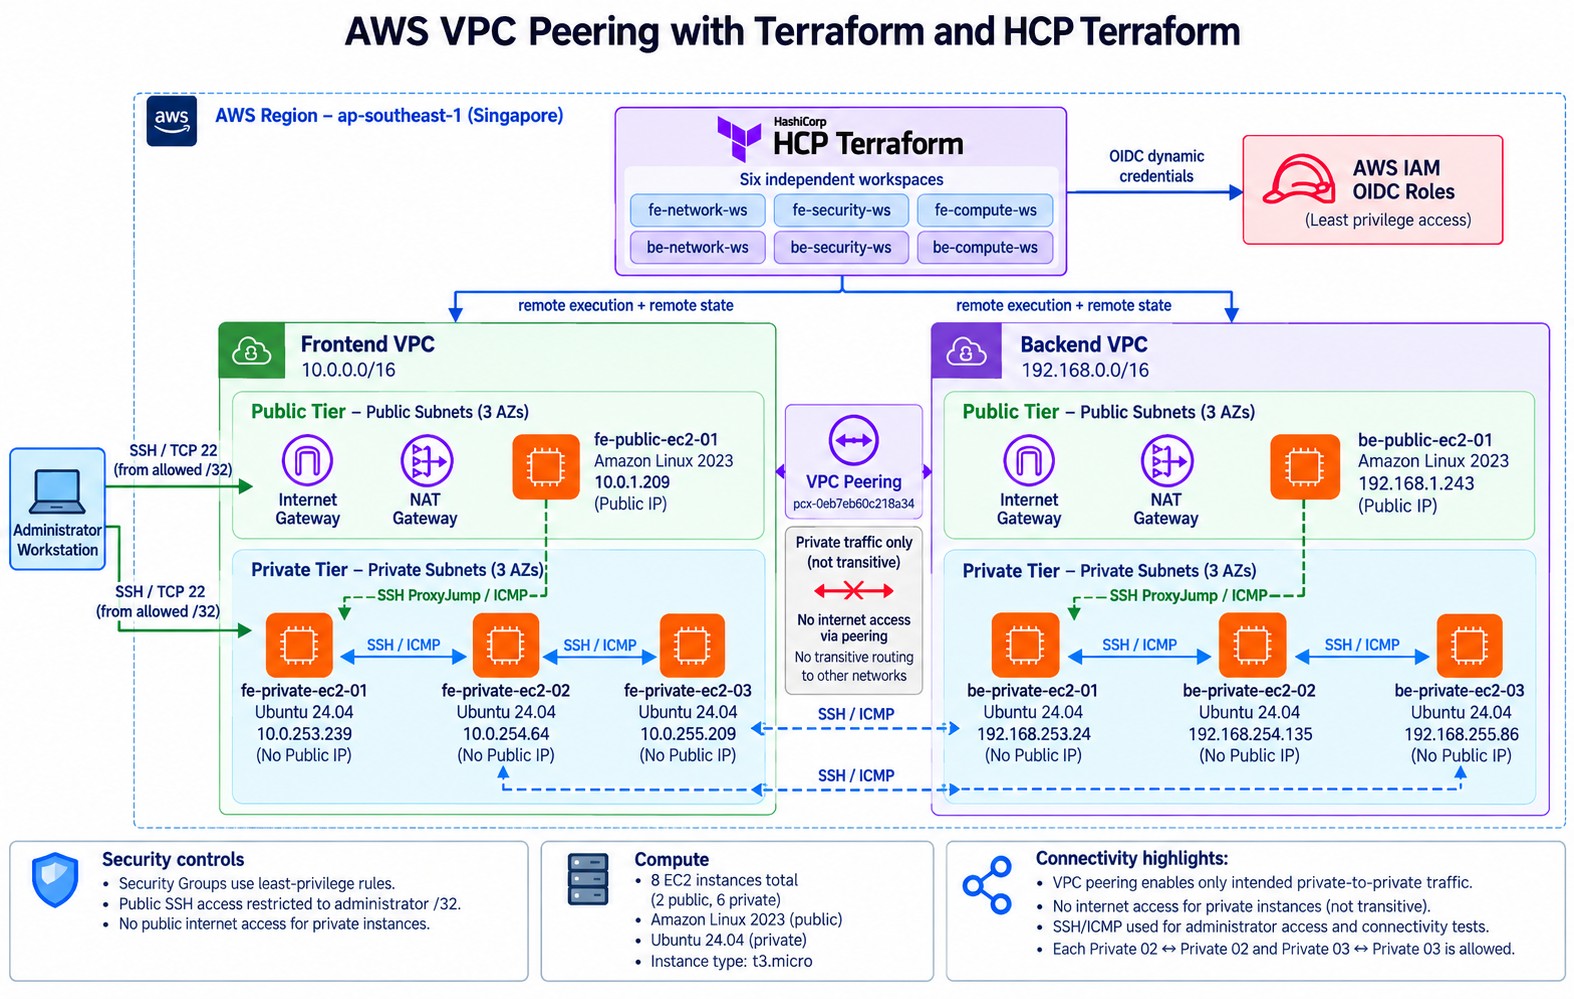
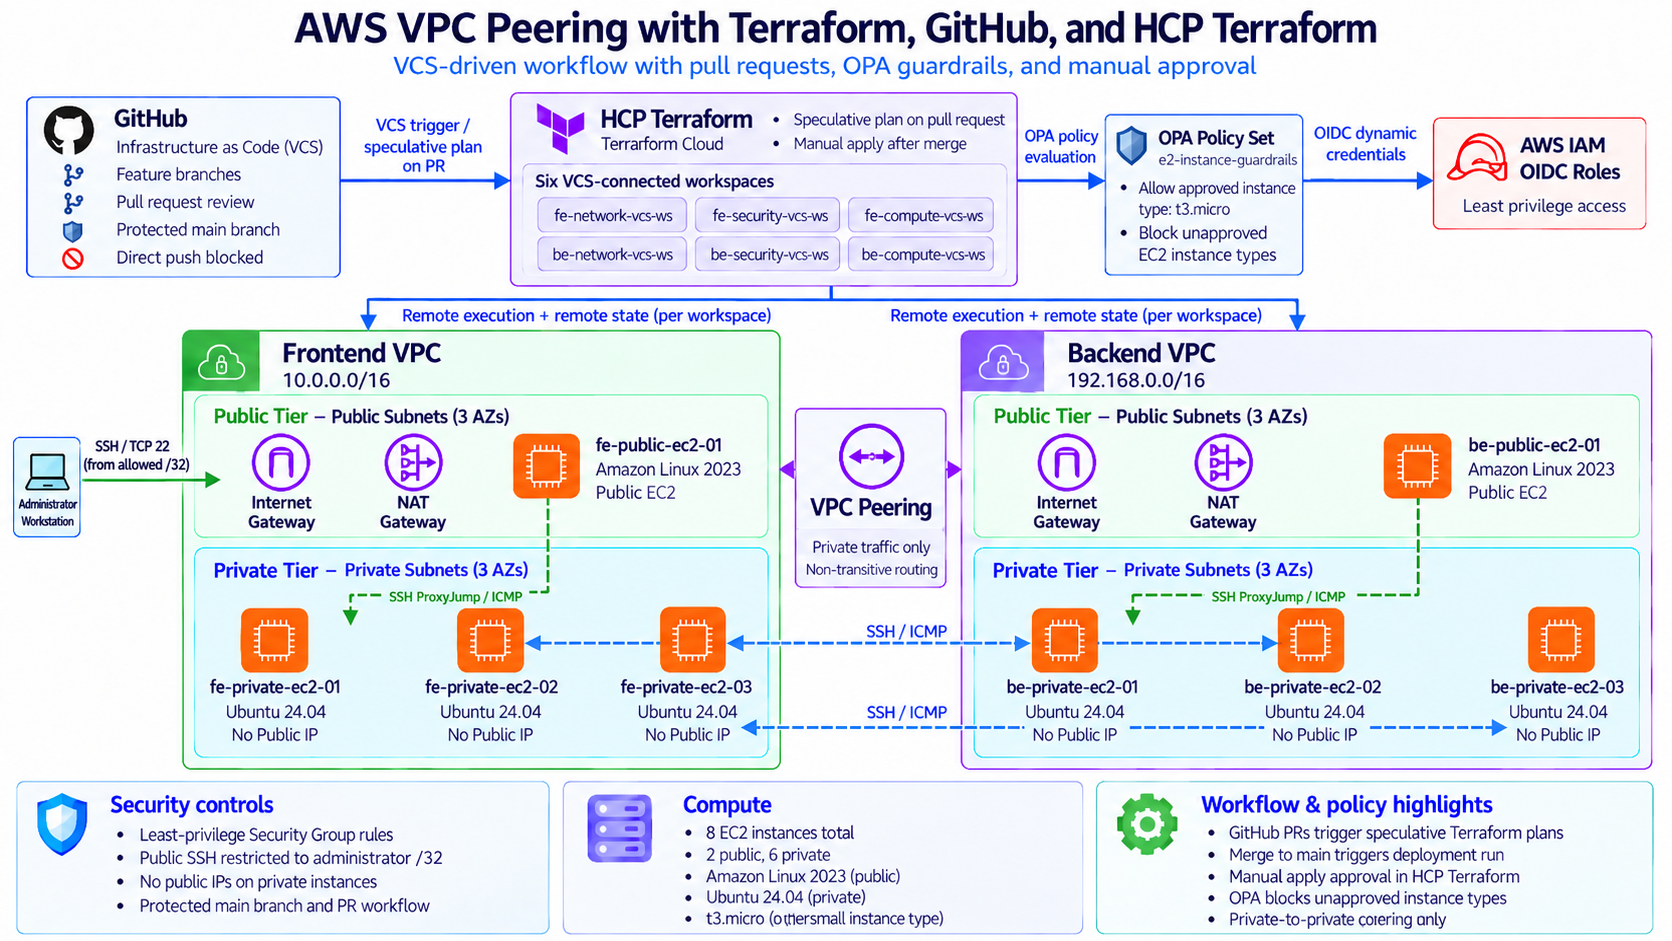
docs: finalize VPC peering CI/CD documentation

diff --git a/README.md b/README.md
@@ -1,6 +1,7 @@
-# AWS VPC Peering with Terraform — VCS-Driven Workflow
+# AWS VPC Peering with Terraform — GitHub CI/CD & HCP Terraform
 
-**A multi-VPC AWS networking project managed with Terraform and HCP Terraform, using GitHub-based version control to trigger infrastructure plans and manual approval for deployment.**
+**A multi-VPC AWS infrastructure project demonstrating Infrastructure as Code (IaC), GitHub-driven CI/CD pipelines, HCP Terraform, OIDC authentication, and Open Policy Agent (OPA) policy enforcement.**
+
 
 ## Overview
 
@@ -8,7 +9,11 @@ This project demonstrates how to build and validate a multi-VPC network in AWS u
 
 Infrastructure is separated into **network**, **security**, and **compute** layers for each VPC. HCP Terraform manages remote execution and state, and AWS access from HCP Terraform is authenticated through **OIDC-based dynamic provider credentials** rather than long-lived AWS access keys.
 
-This implementation uses the HCP Terraform Version Control Workflow. Each workspace is connected to the corresponding Terraform root directory in GitHub. Repository changes trigger Terraform plans, while infrastructure deployment is controlled through manual apply approval.
+
+This project implements a GitHub-driven CI/CD workflow using HCP Terraform. Infrastructure changes are submitted through pull requests, which automatically trigger speculative Terraform plans for validation. After a pull request is merged into the protected `main` branch, HCP Terraform triggers a deployment plan that requires manual approval before changes are applied to AWS.
+
+An OPA policy set provides an additional policy-as-code validation stage, rejecting disallowed EC2 instance types before deployment.
+
 
 ### Key capabilities
 
@@ -18,9 +23,9 @@ This implementation uses the HCP Terraform Version Control Workflow. Each worksp
 - Private routing between designated subnet pairs through VPC peering.
 - Security Groups with separately managed ingress and egress rules.
 - Eight EC2 instances: one public jump host and three private hosts per VPC.
-- Multi-hop SSH ProxyJump connectivity without transferring the private SSH key to EC2 instances.
+- SSH jump-host design using OpenSSH ProxyJump without transferring the private SSH key to EC2 instances.
 - Six HCP Terraform workspaces with remote-state dependencies.
-- Verified private-to-private ICMP and SSH connectivity across the peered VPCs.
+- GitHub pull-request review with HCP Terraform speculative plans, manual apply, branch protection, and OPA policy enforcement.
 
 ## Architecture
 
@@ -29,27 +34,50 @@ This implementation uses the HCP Terraform Version Control Workflow. Each worksp
 ### Network connectivity
 
 ```mermaid
-flowchart LR
-    U[Administrator workstation] -->|SSH / TCP 22| FP[Frontend public EC2\n10.0.1.209]
-    U -->|SSH / TCP 22| BP[Backend public EC2\n192.168.1.243]
+flowchart TB
+    Admin["Administrator Workstation"]
 
-    subgraph FE[Frontend VPC — 10.0.0.0/16]
-        FP -->|SSH ProxyJump| F1[Private 01\n10.0.253.239]
-        F1 -->|SSH| F2[Private 02\n10.0.254.64]
-        F1 -->|SSH| F3[Private 03\n10.0.255.209]
+    subgraph FE["Frontend VPC - 10.0.0.0/16"]
+        direction TB
+        FEB["Frontend Bastion - Public Subnet"]
+        FE1["FE Private 01"]
+        FE2["FE Private 02"]
+        FE3["FE Private 03"]
+
+        FEB -->|SSH / ICMP| FE1
+        FE1 -->|SSH / ICMP| FE2
+        FE1 -->|SSH / ICMP| FE3
     end
 
-    subgraph BE[Backend VPC — 192.168.0.0/16]
-        BP -->|SSH ProxyJump| B1[Private 01\n192.168.253.24]
-        B1 -->|SSH| B2[Private 02\n192.168.254.135]
-        B1 -->|SSH| B3[Private 03\n192.168.255.86]
+    subgraph BE["Backend VPC - 192.168.0.0/16"]
+        direction TB
+        BEB["Backend Bastion - Public Subnet"]
+        BE1["BE Private 01"]
+        BE2["BE Private 02"]
+        BE3["BE Private 03"]
+
+        BEB -->|SSH / ICMP| BE1
+        BE1 -->|SSH / ICMP| BE2
+        BE1 -->|SSH / ICMP| BE3
     end
 
-    F2 <-->|Peering: SSH + ICMP| B2
-    F3 <-->|Peering: SSH + ICMP| B3
+    Admin -->|SSH TCP 22| FEB
+    Admin -->|SSH TCP 22| BEB
+
+    FE2 <-->|SSH / ICMP via VPC Peering| BE2
+    FE3 <-->|SSH / ICMP via VPC Peering| BE3
+
+    classDef public fill:#dcfce7,stroke:#16a34a,color:#14532d
+    classDef private fill:#dbeafe,stroke:#2563eb,color:#1e3a8a
+    classDef admin fill:#f1f5f9,stroke:#64748b,color:#0f172a
+
+    class FEB,BEB public
+    class FE1,FE2,FE3,BE1,BE2,BE3 private
+    class Admin admin
 ```
 
-> **Diagram note:** Instance private addresses are from the verified lab deployment and are illustrative deployment results, not Terraform inputs. Actual addresses can differ on reprovisioning. Public access to jump hosts is restricted to a configured administrator `/32` IPv4 address.
+
+> **Network design:** Cross-VPC routes and Security Group rules are configured for the designated Private 02 and Private 03 pairs. The arrows represent intended communication paths, not proof of successful connectivity testing.
 
 ### Network layout
 
@@ -72,7 +100,7 @@ The peering connection supports routing between the intended private subnet pair
 
 ```text
 aws-vpc-peering-terraform-vcs/
-├── assets/           # Architecture diagram
+├── assets/           # Architecture diagram and CI/CD validation screenshots
 ├── fe-network/       # Frontend VPC, subnets, gateways, and routing
 ├── be-network/       # Backend VPC, subnets, gateways, peering, and routing
 ├── fe-security/      # Frontend Security Groups and individual rules
@@ -114,7 +142,7 @@ Pull requests provide an opportunity to review infrastructure changes before mer
 
 HCP Terraform authenticates to AWS using short-lived dynamic provider credentials configured through AWS Quick Setup. This establishes the required AWS trust configuration and IAM role integration without manually writing the complete IAM trust setup.
 
-IAM permissions are scoped to the AWS resources required by each Terraform workspace. Long-lived AWS access keys are not stored in the repository.
+Workspace-specific IAM roles were created using AWS Quick Setup. Broad AWS-managed permissions (including `AmazonVPCFullAccess` and, for compute roles, `AmazonEC2FullAccess`) were used for this temporary lab. A production deployment should replace these with carefully scoped least-privilege policies. Long-lived AWS access keys are not stored in the repository.
 
 No AWS access keys are required in the repository.
 
@@ -125,7 +153,7 @@ No AWS access keys are required in the repository.
 - Only an SSH **public key** is registered as an AWS EC2 key pair through Terraform.
 - The corresponding **private key remains on the administrator's workstation** and must never be committed to source control.
 - SSH access to public jump hosts is restricted to an administrator IPv4 `/32` CIDR.
-- Private hosts have no public IPv4 addresses and are reached through SSH ProxyJump.
+- Private hosts have no public IPv4 addresses and are designed to be accessed through an SSH bastion using OpenSSH ProxyJump.
 - EC2 instances require IMDSv2.
 
 ### Network access rules
@@ -165,49 +193,85 @@ Infrastructure is deployed through the HCP Terraform Version Control Workflow, w
 4. **Provision networking.** Trigger and review Terraform plans for the frontend and backend networking workspaces, then approve the required applies.
 5. **Provision security.** Deploy frontend and backend Security Groups, resolving cross-workspace dependencies through staged deployment where necessary.
 6. **Provision compute.** Deploy the frontend and backend EC2 instances after their network and security dependencies are available.
-7. **Validate connectivity.** Test SSH ProxyJump, private ICMP connectivity, and SSH communication across the peered VPCs.
-8. **Destroy infrastructure.** Perform dependency-aware teardown through HCP Terraform after validation.
+7. **Review changes using GitHub PRs.** Run speculative Terraform plans on proposed changes and merge approved changes into protected `main`.
+8. **Enforce policy as code.** Use an HCP Terraform OPA policy set to reject unapproved EC2 types before applying changes.
+9. **Validate connectivity.** Record successful and unsuccessful SSH and ICMP tests separately (see below).
+10. **Destroy infrastructure.** Perform dependency-aware teardown through HCP Terraform after testing.
 
-### Change management
+### Change management and PR evidence
 
-Terraform configuration changes are committed to GitHub. HCP Terraform detects relevant changes and generates plans for review.
+GitHub is the configuration source of truth. The `main` branch has an active ruleset named `protect-main-pr-workflow`, requiring changes to enter through Pull Requests, with zero required reviewer approvals for this solo lab. Force pushes and branch deletion are restricted. The configured ruleset was inspected, but **a rejected direct-push attempt was not independently tested**.
 
-Infrastructure modifications require manual apply approval. Terraform state remains managed by HCP Terraform rather than being committed to GitHub.
+1. Create a feature branch and push Terraform changes to GitHub.
+2. Open a Pull Request targeting `main`. HCP Terraform creates **speculative (plan-only)** runs for affected workspaces; these cannot apply infrastructure changes.
+3. Review the PR and plan; merge the PR when appropriate.
+4. HCP Terraform detects the updated `main` branch and starts normal runs; **manual Confirm & Apply** is required before modifying AWS.
 
-## Previous deployment validation results
+**Observed evidence:**
 
-The following results were recorded during the previous CLI-driven implementation of the same AWS architecture. Connectivity testing for this VCS-driven deployment will be documented separately after provisioning.
+- [PR #1 — Enable private and cross-VPC security rules](https://github.com/han-ni-htun/aws-vpc-peering-terraform-vcs/pull/1): speculative plans succeeded for both security workspaces (**15 add / 0 change / 0 destroy** each). After merge, both normal HCP Terraform runs were manually approved and applied, creating 15 private security rules on each side.
+- [PR #2 — Test OPA denial of `t3.large`](https://github.com/han-ni-htun/aws-vpc-peering-terraform-vcs/pull/2): speculative frontend-compute run proposed changes to four EC2 instances; a **mandatory OPA policy failed**. The PR was closed without merging, and no corresponding infrastructure change was applied.
 
-The deployed infrastructure was validated through SSH connectivity, ICMP testing, and cross-VPC communication.
+Terraform state is managed in HCP Terraform and is not committed to GitHub.
 
-| Test | Source | Target | Result |
-|---|---|---|---|
-| Public SSH | Administrator workstation | Frontend and backend public EC2 | Passed |
-| SSH ProxyJump | Administrator workstation | Frontend and backend Private 01 | Passed |
-| ICMP over peering | FE Private 02 | BE Private 02 | 4/4 replies, 0% loss, avg. 0.268 ms |
-| ICMP over peering | FE Private 03 | BE Private 03 | 4/4 replies, 0% loss, avg. 0.327 ms |
-| SSH over peering | FE Private 02 | BE Private 02 | Passed |
-| SSH over peering | FE Private 03 | BE Private 03 | Passed |
+### OPA Policy as Code
 
-Sample commands used from the source private instances:
+An individually managed HCP Terraform **OPA** policy set named `ec2-instance-guardrails` was assigned only to `fe-compute-vcs-ws` and `be-compute-vcs-ws`. Its mandatory policy `restrict-ec2-instance-type` examines planned `aws_instance` create/update actions and denies instance types other than `t3.micro`. The policy is configured through HCP Terraform's UI; **its Rego source is not stored in this repository**.
 
-```bash
-# Verify ICMP reachability from frontend Private 02 to backend Private 02.
-ping -c 4 192.168.254.135
+| Test | Configuration / plan | Observed result |
+| --- | --- | --- |
+| Policy evaluation succeeds | Existing `t3.micro` deployment, no infrastructure changes (`0 add / 0 change / 0 destroy`) | OPA policies **passed**; validates successful execution on a no-change plan |
+| Policy rejects noncompliant changes | PR #2 proposes `t3.large` for frontend EC2, `0 add / 4 change / 0 destroy` | Mandatory OPA policy **failed**; plan-only PR run could not be applied |
 
-# Verify ICMP reachability from frontend Private 03 to backend Private 03.
-ping -c 4 192.168.255.86
-```
+The first case does **not** independently exercise an allowed EC2 *creation/update*, because there were no changes; the second case does demonstrate active rejection. The `t3.large` configuration was **never merged into `main`**.
 
-For SSH, the administrator workstation used OpenSSH `ProxyJump` aliases to traverse the public EC2 and frontend private hosts before entering the matching backend private EC2. This avoids copying private keys onto intermediate EC2 hosts.
 
-**Validation scope:** ICMP and SSH connectivity were successfully verified between the intended EC2 instances across VPC peering. Tests to confirm that unauthorized connections are blocked were not performed.
+## VCS-Driven Deployment Validation
+
+This deployment successfully provisioned the AWS infrastructure through six HCP Terraform workspaces using GitHub-driven workflows, OIDC authentication, and manual deployment approvals.
+
+| Validation | Result |
+|---|---|
+| Frontend and backend infrastructure provisioning | Passed |
+| VPC peering connection and route provisioning | Passed |
+| [GitHub PR #1](https://github.com/han-ni-htun/aws-vpc-peering-terraform-vcs/pull/1) — speculative Terraform plans | Passed |
+| [GitHub PR #1](https://github.com/han-ni-htun/aws-vpc-peering-terraform-vcs/pull/1) — merge-triggered deployment | Passed |
+| GitHub `main` branch protection | Configured |
+| OPA policy evaluation on unchanged infrastructure | Passed |
+| [GitHub PR #2](https://github.com/han-ni-htun/aws-vpc-peering-terraform-vcs/pull/2) — OPA rejection of `t3.large` | Passed — mandatory policy blocked the plan |
+| Frontend bastion SSH access | Passed |
+| Frontend intra-VPC ICMP connectivity | Passed — 4/4 replies, 0% packet loss |
+
+
+#### PR #1 — Successful Terraform Checks
+
+[View GitHub PR #1](https://github.com/han-ni-htun/aws-vpc-peering-terraform-vcs/pull/1)
+
+![GitHub PR #1 — Terraform checks passed](assets/pr1-terraform-checks.png)
+
+#### PR #2 — OPA Policy Rejection
+
+[View GitHub PR #2](https://github.com/han-ni-htun/aws-vpc-peering-terraform-vcs/pull/2)
+
+![HCP Terraform — OPA mandatory policy failure](assets/pr2-opa-failure.png)
+
+
+
+## Related Project
+
+This project builds on an earlier CLI-driven implementation of the same AWS VPC peering architecture.
+
+For the original Terraform deployment, including cross-VPC SSH and ICMP connectivity tests, see:
+
+**[AWS VPC Peering with Terraform — CLI-Driven Workflow](https://github.com/han-ni-htun/aws-vpc-peering-terraform)**
+
+
 
 ## Operational considerations
 
 - **Changing administrator IP:** If the administrator's public IPv4 address changes, update the HCP Terraform administrator CIDR variable in both security workspaces and apply the reviewed security plans.
 - **SSH host keys:** Verify SSH host fingerprints through a trusted channel before accepting unfamiliar hosts.
-- **AMI updates:** A `most_recent` AMI data source may select a different image over time. Review compute plans carefully because changing an instance AMI may require replacement. Pin AMI identifiers or use a deliberate image versioning strategy for reproducible environments.
+- **AMI updates:** Terraform may select a newer Amazon Machine Image (AMI) when `most_recent = true` is used. This can cause EC2 instances to be replaced during a future Terraform apply. Review Terraform plans carefully before approving changes.
 - **Remote state:** Store state in HCP Terraform, not Git. Share state only with authorized workspaces.
 - **Change management:** Avoid editing Terraform-managed AWS resources manually in the AWS Console, because it may introduce configuration drift.
 
@@ -218,7 +282,7 @@ Resources are managed across six independent HCP Terraform workspaces. Infrastru
 1. Destroy the frontend and backend compute resources.
 2. Remove cross-VPC Security Group references before destroying the security resources.
 3. Destroy the remaining Security Groups and associated rules.
-4. Remove dependent VPC peering routes before destroying the peering connection and network resources.
+4. Remove VPC peering routes and destroy the peering connection before destroying the remaining network resources.
 5. Verify that all Terraform-managed AWS resources have been removed.
 
 Terraform does not automatically resolve dependencies across independent workspaces, so resource destruction must follow the appropriate dependency order.
@@ -234,10 +298,19 @@ The repository follows Terraform and Git security practices to protect sensitive
 - Sensitive configuration values and AWS authentication settings are managed through HCP Terraform workspace variables and AWS IAM.
 - Repository contents are reviewed to prevent accidental exposure of credentials and sensitive infrastructure information.
 
+
 ## Technical highlights
 
-This project implements AWS VPC networking and cross-VPC connectivity using Terraform and HCP Terraform. Key technical components include subnet routing, VPC peering, granular Security Group rules, secure multi-hop SSH access, OIDC-based AWS authentication, remote Terraform state integration, and infrastructure management across six independent workspaces.
+- **Infrastructure as Code:** Managed two AWS VPCs, subnets, route tables, NAT Gateways, VPC peering, Security Groups, and eight EC2 instances using Terraform.
+- **CI/CD Pipeline:** Integrated GitHub Pull Requests with HCP Terraform to trigger automated speculative plans, merge-triggered deployment runs, and manual apply approvals.
+- **Policy as Code:** Implemented mandatory Open Policy Agent (OPA) guardrails to reject unapproved EC2 instance types.
+- **Secure AWS Authentication:** Used OIDC-based dynamic credentials instead of storing long-lived AWS access keys.
+- **Infrastructure Separation:** Organized infrastructure into six independent network, security, and compute workspaces.
+- **Remote State Management:** Configured controlled cross-workspace state sharing for infrastructure dependencies.
+- **GitHub Branch Protection:** Required pull requests before merging changes into the `main` branch.
 
 ---
 
-**Project status:** VCS workflow configuration in progress. Deployment and connectivity validation pending.
+***Let's DevOps Together! 🚀***
+
+
